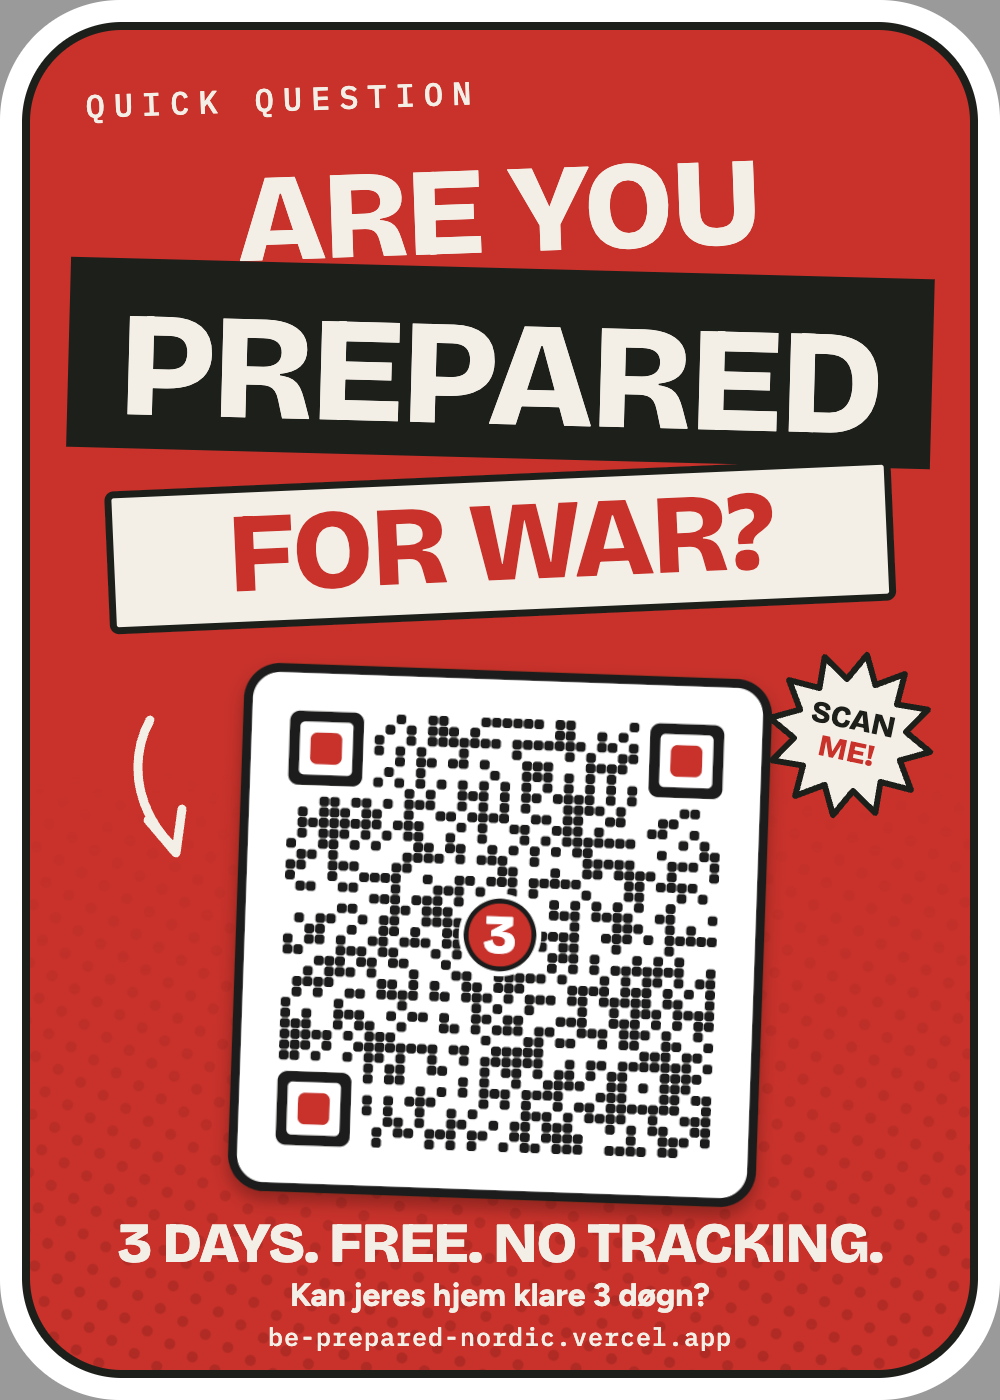
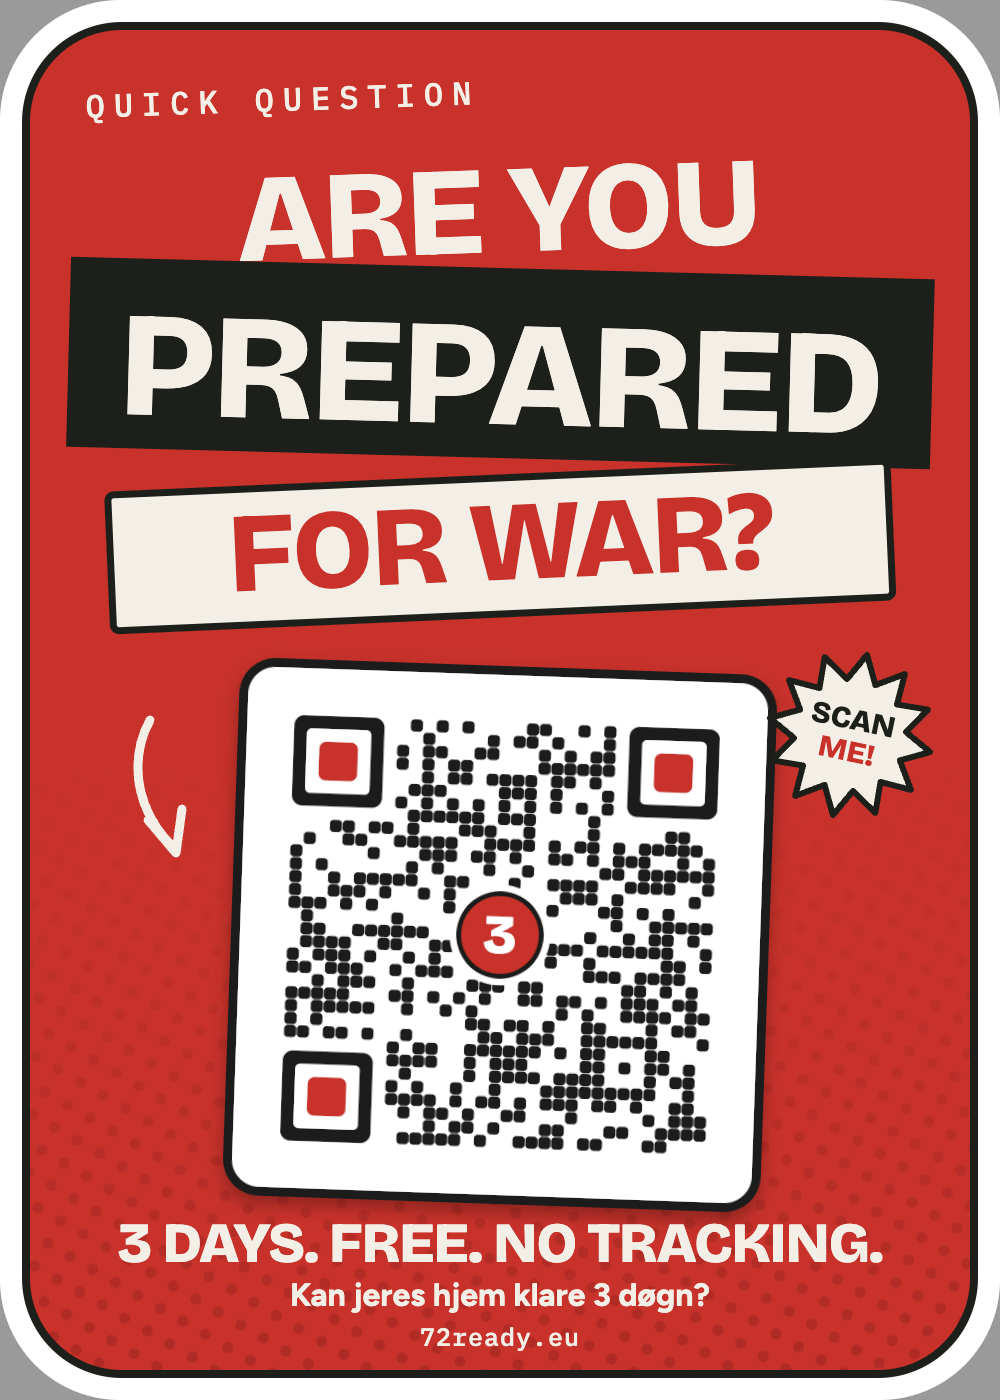
Switch to the 72ready.eu domain
Canonical, hreflang, og:url, og:image, twitter:image, sitemap and robots
now use https://72ready.eu. The share image and the sticker carry the new
address, and the sticker QR is regenerated for it (smaller code, bigger
dots, decoded back from the PNG). Not to be pushed until DNS points at
Vercel, or the canonical would name a site that does not resolve yet.

Changed region(s): [[0.217, 0.4607, 0.775, 0.8907], [0.279, 0.9521, 0.651, 0.9829], [0.682, 0.9521, 0.744, 0.9829]]

diff --git a/index.html b/index.html
@@ -5,10 +5,10 @@
 <meta name="viewport" content="width=device-width,initial-scale=1,viewport-fit=cover">
 <title>Denmark Ready Kit: 3-day home preparedness, Danish advice</title>
 <meta name="description" content="Be ready at home for 3 days. The official Danish advice in plain words: water, food, medicine, power, pets, and the siren steps. In Danish and English.">
-<link rel="canonical" href="https://be-prepared-nordic.vercel.app/">
-<link rel="alternate" hreflang="en" href="https://be-prepared-nordic.vercel.app/">
-<link rel="alternate" hreflang="da" href="https://be-prepared-nordic.vercel.app/?lang=da">
-<link rel="alternate" hreflang="x-default" href="https://be-prepared-nordic.vercel.app/">
+<link rel="canonical" href="https://72ready.eu/">
+<link rel="alternate" hreflang="en" href="https://72ready.eu/">
+<link rel="alternate" hreflang="da" href="https://72ready.eu/?lang=da">
+<link rel="alternate" hreflang="x-default" href="https://72ready.eu/">
 <meta name="robots" content="index,follow,max-image-preview:large">
 <meta name="color-scheme" content="light dark">
 <meta name="theme-color" content="#F3EFE6" media="(prefers-color-scheme: light)">
@@ -30,15 +30,15 @@
 <meta property="og:site_name" content="Denmark Ready Kit">
 <meta property="og:title" content="Denmark Ready Kit: be ready at home for 3 days">
 <meta property="og:description" content="A simple guide to the official Danish advice for home preparedness. In Danish and English.">
-<meta property="og:url" content="https://be-prepared-nordic.vercel.app/">
-<meta property="og:image" content="https://be-prepared-nordic.vercel.app/og-image.png">
+<meta property="og:url" content="https://72ready.eu/">
+<meta property="og:image" content="https://72ready.eu/og-image.png">
 <meta property="og:image:width" content="1200">
 <meta property="og:image:height" content="630">
 <meta property="og:image:alt" content="Could your home last 3 days alone? A taped-up shelter sign and a big red 3. Kan jeres hjem klare 3 døgn?">
 <meta property="og:locale" content="en_GB">
 <meta property="og:locale:alternate" content="da_DK">
 <meta name="twitter:card" content="summary_large_image">
-<meta name="twitter:image" content="https://be-prepared-nordic.vercel.app/og-image.png">
+<meta name="twitter:image" content="https://72ready.eu/og-image.png">
 <meta name="twitter:title" content="Denmark Ready Kit: be ready at home for 3 days">
 <meta name="twitter:description" content="A simple guide to the official Danish advice for home preparedness. In Danish and English.">
 <script src="theme.js"></script>
@@ -46,7 +46,7 @@
 {
   "@context": "https://schema.org",
   "@type": "WebPage",
-  "url": "https://be-prepared-nordic.vercel.app/",
+  "url": "https://72ready.eu/",
   "name": "Denmark Ready Kit",
   "dateModified": "2026-10-22",
   "isAccessibleForFree": true,

diff --git a/sw.js b/sw.js
@@ -1,5 +1,5 @@
 /* Offline support: the page keeps working without internet or power-grid problems. */
-var CACHE = 'ready-kit-v17';
+var CACHE = 'ready-kit-v18';
 var CORE = ['./', 'index.html', 'app.js', 'theme.js', 'fonts/figtree-latin-wght-normal.woff2', 'fonts/bricolage-grotesque-latin-wght-normal.woff2', 'fonts/ibm-plex-mono-latin-500-normal.woff2', 'manifest.webmanifest', 'icon.svg', 'favicon.ico', 'icon-192.png', 'icon-512.png', 'apple-touch-icon.png'];
 
 self.addEventListener('install', function (e) {

diff --git a/README.md b/README.md
@@ -41,7 +41,7 @@ Import this repo. Framework: Other. No build command. Add the two environment va
 
 ## To do once the site has its final address
 
-- Replace `https://be-prepared-nordic.vercel.app` with the final domain in `index.html` (canonical, hreflang, og:url, og:image, twitter:image), `sitemap.xml` and `robots.txt`; it appears nowhere else
+- The production domain is `72ready.eu` (www redirects to it). It appears in `index.html` (canonical, hreflang, og:url, og:image, twitter:image), `sitemap.xml`, `robots.txt` and the share image text; change it only there
 - If the domain text in the share image changes, edit `og-image.svg` (fonts are embedded) and re-render it to `og-image.png` at 1200 x 630 with headless Chrome
 - Add a Vercel Firewall rate-limit rule for `/api/contact`
 - Review the privacy notice text (it names the site owner and says messages are deleted after 12 months)
